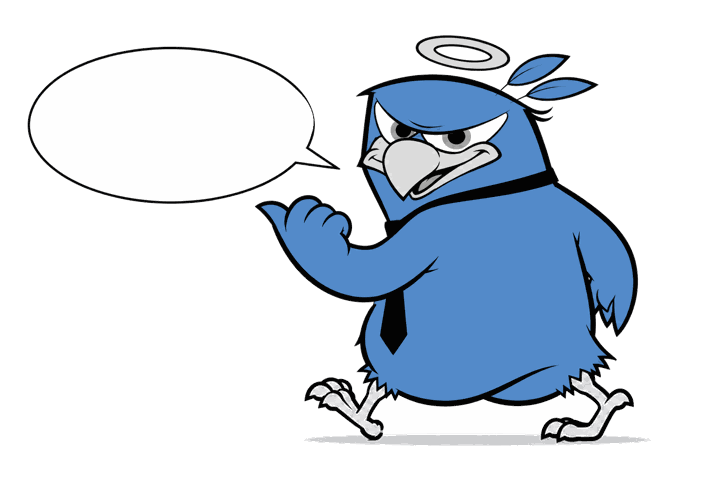
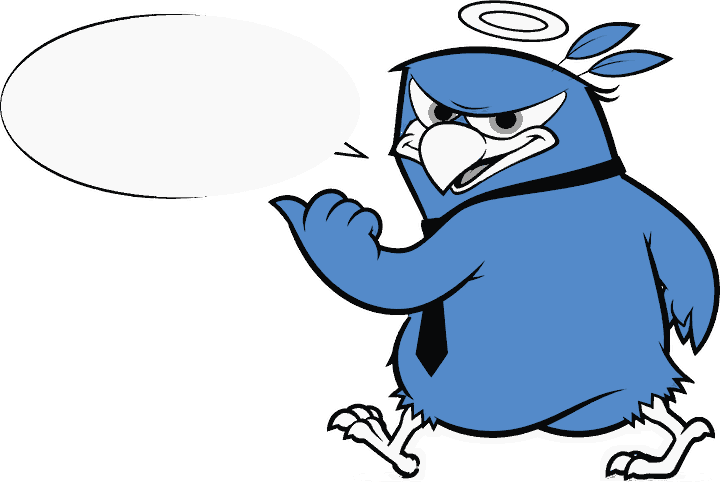
Fix Angelo's cutout on navy, swap the flipchart art, drop the "research problem" framing
CUTOUT: the beckoning Angelo showed a white blob under his feet on the navy checkout block. The
original cut only removed pixels brighter than 235, so the light grey floor shadow survived as an
opaque shape (invisible on a white page, glaring on navy). Re-cut from source with a brightness AND
neutrality test so the shadow goes with the background, plus a pass that removes pale pixels in the
lower band only where no black outline is nearby, which distinguishes the shadow from his own white
feet. The blanking ellipse for the speech bubble is now located by finding the bubble rather than by
fixed percentages, which had drifted when the crop changed. 247KB to 16KB.

FLIPCHART: new artwork. The words were previously HTML overlaid on a blank pad; this art has them
baked in, so the overlay markup is removed to avoid showing everything twice, and the alt text now
carries the words for screen readers.

COPY (David): never call it a "research problem". That is our internal label for our own work, on a
page arguing you must use the buyer's words rather than your own. Eyebrow "Where this leaves you"
read as machine-written, now "So what now?". The six-line paragraph is split in two and cut from 65
words to 49. All three rules added to RULEBOOK.md so they cannot drift back.

diff --git a/app.py b/app.py
@@ -466,16 +466,13 @@ PAGE = """<!doctype html><html lang="en"><head>
     <input type="text" name="url" id="urlinput" placeholder="yourcoachingwebsite.com" value="{url_value}">
     <button type="submit">Show me what a cold buyer sees</button>
   </form>
-  <!-- Angelo explains the plan: blank flipchart in the artwork, the words are real HTML
-       overlaid on the pad (same pattern as the bubble and the signposts). -->
+  <!-- Angelo explains the plan. NOTE: the words used to be HTML overlaid on a blank pad, which kept
+       them crisp and readable at any width. This artwork has them baked in, so the overlay is gone.
+       The alt text below therefore carries the words for anyone who cannot see the image. -->
   <div class="plan2">
     <div class="plan-wrap">
-      <img class="plan-img" src="/angelo_plan.png" alt="Angelo at his flipchart, explaining the two steps">
-      <div class="plan-lbl">
-        <div class="pl-h">Your homepage is a mirror.</div>
-        <div class="pl-step"><span>1</span>Your report. Free, about half a minute.</div>
-        <div class="pl-step"><span>2</span>What to do about it.</div>
-      </div>
+      <img class="plan-img" src="/angelo_plan.png"
+           alt="Angelo at his flipchart. Your homepage is a mirror. One: your report, free, about half a minute. Two: what to do about it.">
     </div>
     <p class="p2-cap">It shows how you <b>think</b> about your marketing, and Angelo reads it the way a cold buyer does.</p>
     <p class="p2-note">One thing before you start. This is not consultancy, coaching or mentoring, and we are
@@ -2469,12 +2466,12 @@ def _render_salespage(first_name, headline, tokens, score, screenshot="", raw_js
     <span class="step-here pos3">You are here</span>
   </div>
   <div class="narrative-bridge">
-    <div class="nb-label">Where this leaves you</div>
-    <h2>You cannot write your way out of a research problem.</h2>
-    <p>You can rewrite your homepage. You can hire a copywriter. You can ask an AI to help you.
-    None of those things change what your buyer is already thinking before they arrive on your page.
-    The only fix is to find out what they are thinking, in their own words, not yours.
-    That is a research problem. The Marketing Intelligence File solves it.</p>
+    <div class="nb-label">So what now?</div>
+    <h2>You cannot write your way out of this.</h2>
+    <p>You can rewrite your homepage. You can hire a copywriter. You can ask AI to help. None of it
+    changes what your buyer is already thinking before they arrive.</p>
+    <p>The only fix is finding out what they think, in their words. That is what the Marketing
+    Intelligence File gives you.</p>
     <p>You now have three options.</p>
   </div>
 

diff --git a/RULEBOOK.md b/RULEBOOK.md
@@ -116,6 +116,12 @@ there a free way in" is the Opt-in criterion's job).
 - BANNED words/marks: land/lands, "the gap", quietly, guessing, drift, rescue, leverage, unlock,
   elevate, harness, delve, robust, foster, tapestry, testament, furthermore, moreover, em dashes.
 - No vague grade-words: middling, moderate, decent, somewhat, reasonable.
+- **NEVER call it a "research problem"** (David). That is our internal label for our own work, not
+  language any coach uses about themselves, on a page whose whole argument is to use the buyer's
+  words instead of your own. Name what is actually happening to them, not the category we file it under.
+- **No AI-summary register in headings.** Phrases like "Where this leaves you" / "What this means for
+  you" read as machine-written. Use plain spoken words ("So what now?").
+- **Paragraph depth: 4 lines maximum.** A block running 6 lines deep gets split, not shrunk in type.
 - **No invented facts or entities:** never name a competitor, invent a rival's quote, cite a study, a
   statistic, or a source not in the copy. Example lines are your own generic illustration ("e.g. …"),
   never attributed to anyone.
